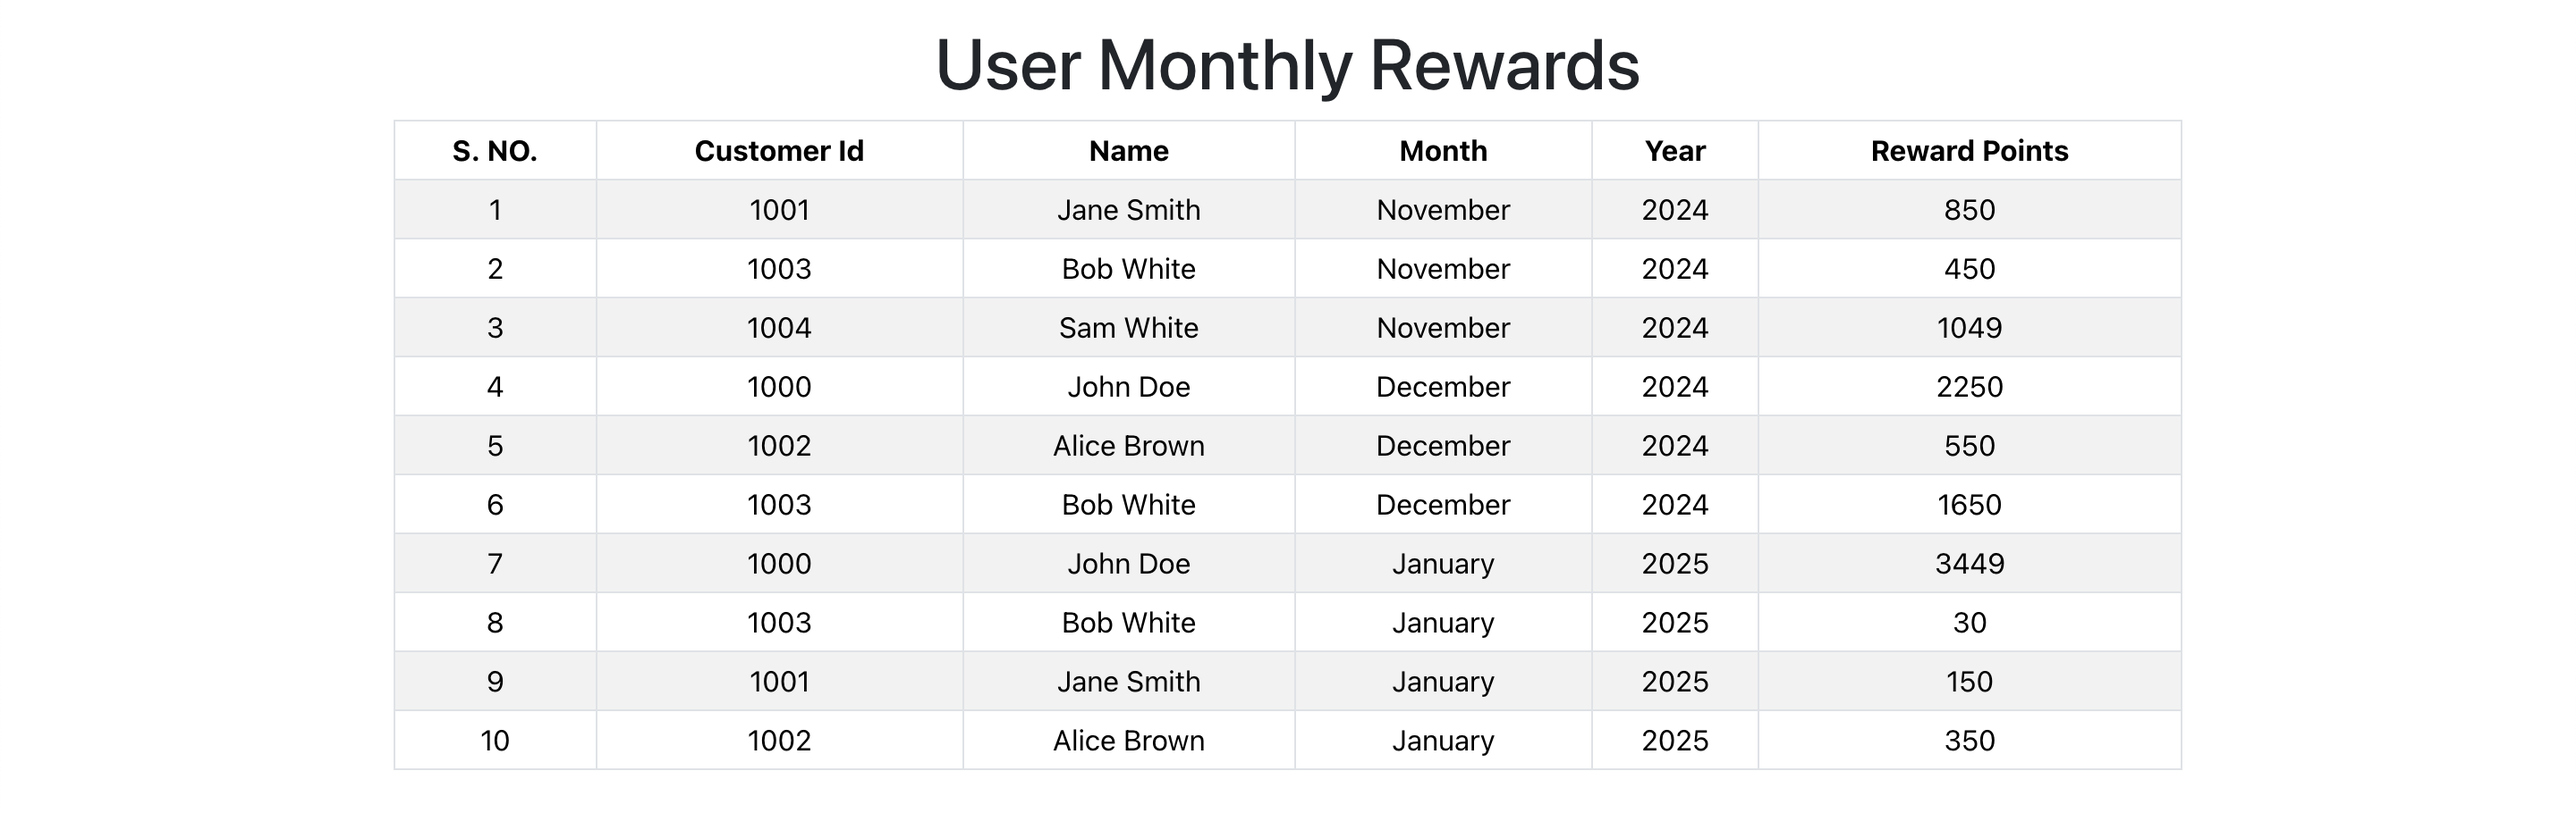
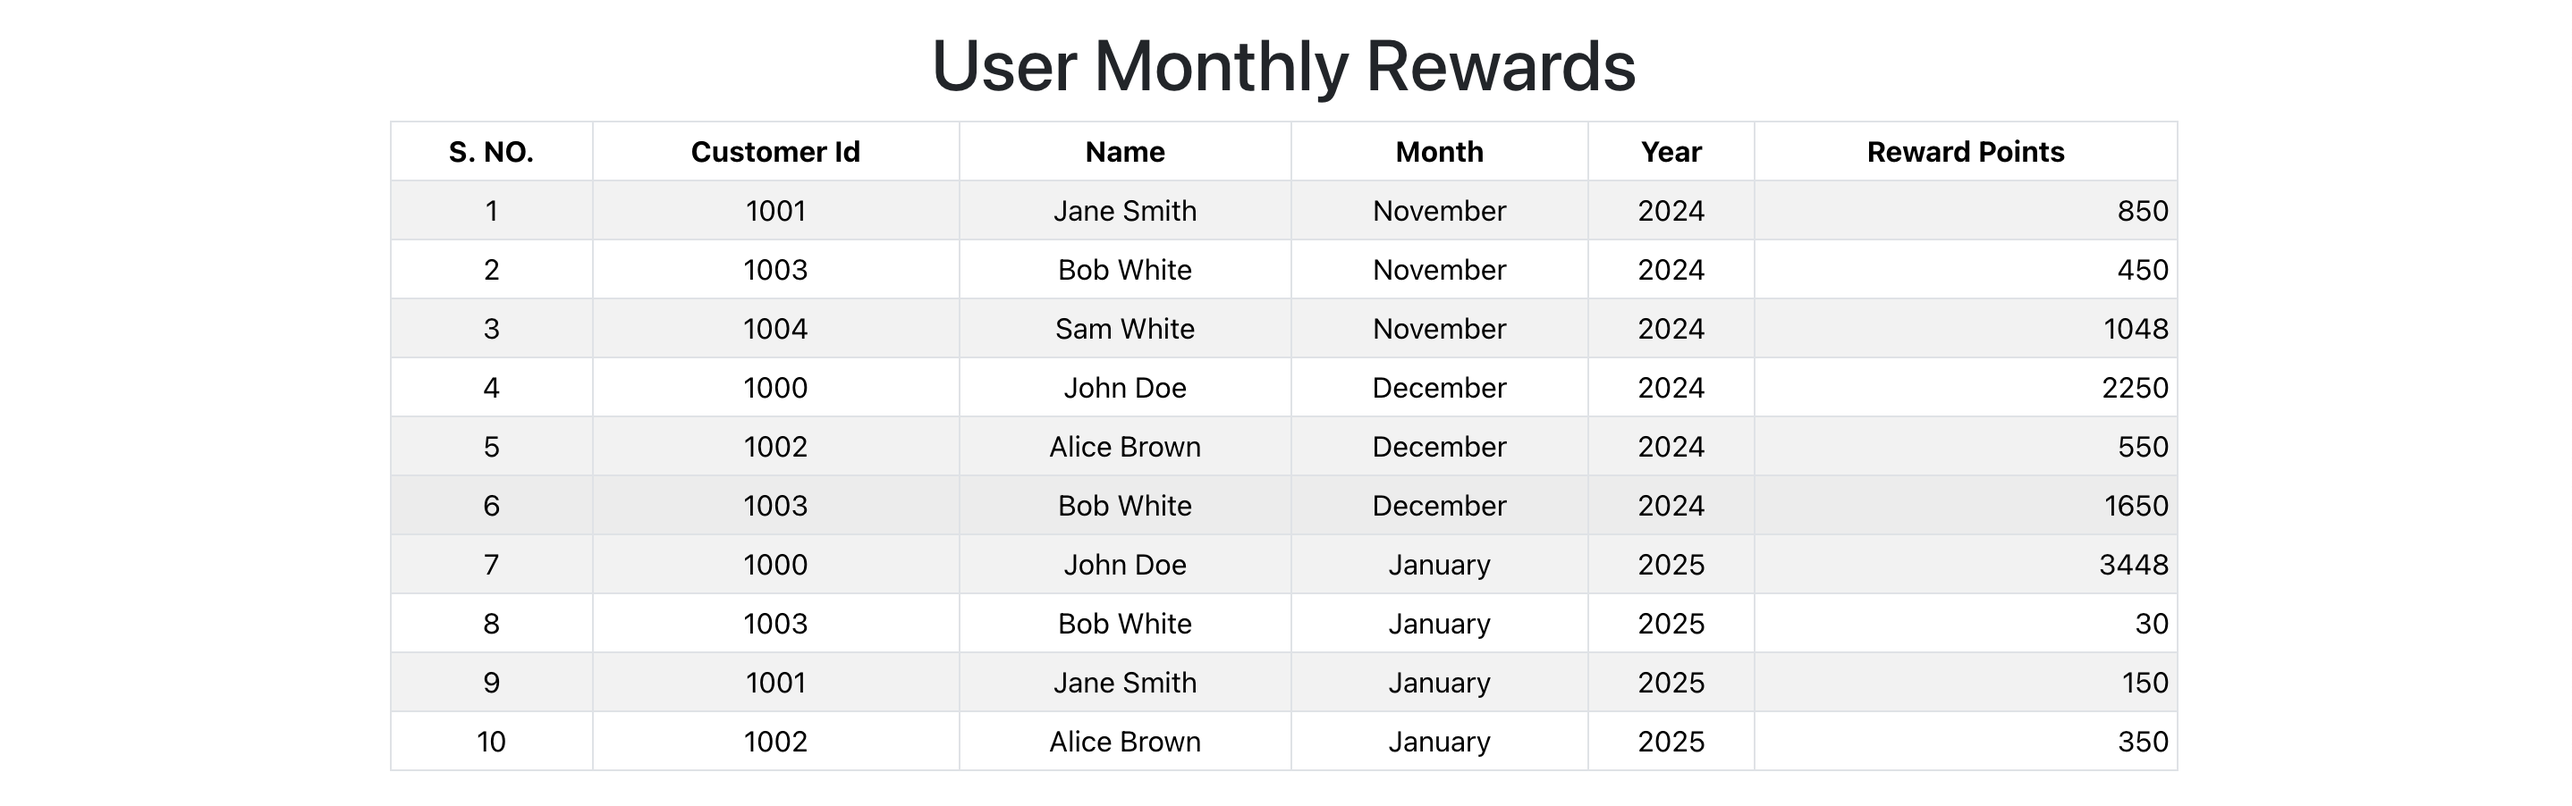
ok

diff --git a/src/components/Transaction.jsx b/src/components/Transaction.jsx
@@ -30,7 +30,7 @@ const TransactionDetails = ({ data }) => {
                 <td>{val.purchaseDate}</td>
                 <td>{val.productPurchased}</td>
                 <td>{val.price}</td>
-                <td>{rewardsPoint}</td>
+                <td id="rewardPoints">{rewardsPoint}</td>
               </tr>
             );
           })}

diff --git a/src/components/MonthlyReward.jsx b/src/components/MonthlyReward.jsx
@@ -28,7 +28,7 @@ const MonthlyReward = ({ data }) => {
                 <td>{val.customerName}</td>
                 <td>{val.purchaseMonth}</td>
                 <td>{val.purchaseYear}</td>
-                <td>{rewardsPoint}</td>
+                <td id="rewardPoints">{rewardsPoint}</td>
               </tr>
             );
           })}

diff --git a/src/components/TotalReward.jsx b/src/components/TotalReward.jsx
@@ -24,7 +24,7 @@ const TotalReward = ({ data }) => {
                 <td>{index + 1}</td>
                 <td>{val.customerId}</td>
                 <td>{val.customerName}</td>
-                <td>{rewardsPoint}</td>
+                <td id="rewardPoints">{rewardsPoint}</td>
               </tr>
             );
           })}

diff --git a/src/App.css b/src/App.css
@@ -8,6 +8,6 @@
   margin: auto;
 }
 
-#table tr td{
+#rewardPoints{
   text-align: right;
 }
